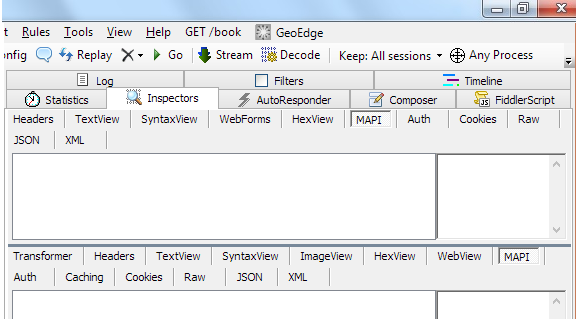
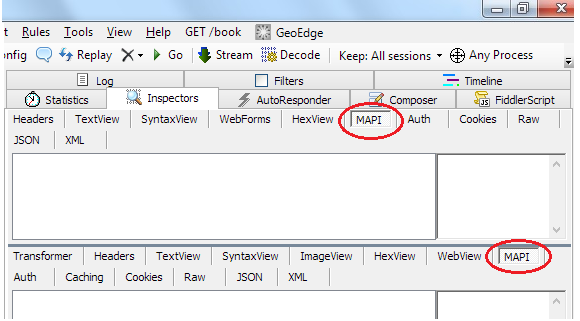
changed image links to relative links of image files in the README-Images directory

diff --git a/README.md b/README.md
@@ -10,25 +10,25 @@ Installation of the MAPI Inspector involves adding the DLL file and the MAPI scr
 
 ### MAPI Inspector DLL###
 1. Copy the file [MAPIFiddlerInspector.dll](https://github.com/OfficeDev/MAPI-Inspector-for-Fiddler/blob/master/MAPIFiddlerInspector.dll) into the C:\Program Files\Fiddler2\Inspectors directory. Alternatively, you can clone this repository, build the MAPIFiddlerInspector.dll, and copy the built .dll to your C:\Program Files\Fiddler2\Inspectors directory.
-2. Restart Fiddler. The MAPI Inspector will display under the *Inspectors* tab, as shown in the following screenshot, after restarting.
+2. Restart Fiddler. After restarting, the MAPI Inspector will display under the *Inspectors* tab for both the request and the response, as shown in the following screenshot.
 
-    ![alt tag](https://cloud.githubusercontent.com/assets/13864956/10044516/329c59c4-622e-11e5-9b68-8ef920d4ead8.jpg)
+    ![alt tag](/README-Images/Figure1-Inspector.png)
 
 ### MAPI Script ###
 
 1. From the *Rules* menu, which is shown in the following screenshot, click *Customize Rules*.
     
-    ![alt tag](https://cloud.githubusercontent.com/assets/13864956/10038377/a6e8d104-61f7-11e5-9a84-989fcf135f2c.png)
+    ![alt tag](/README-Images/Figure2-mapiscript.png)
 
 2. When the following message box displays, click the *Yes* button to install the FiddlerScript editor.
 
-    ![alt tag](https://cloud.githubusercontent.com/assets/13864956/10044513/2d5a400c-622e-11e5-9b1c-3cb44c11eb15.jpg)
+    ![alt tag](/README-Images/Figure3-mapiscript.png)
 
 3. Restart Fiddler after the installation of the FiddlerScript editor completes. Fiddler displays a new tab, *FiddlerScript*, as shown in the following screenshot. Copy the code from the code from the [MAPI.js](https://github.com/OfficeDev/MAPI-Inspector-for-Fiddler/blob/master/MAPI.js) file and paste it into the definition for the **Handlers** class. Click the *Save Script* button to save the script.
 
-    ![alt tag](https://cloud.githubusercontent.com/assets/13864956/10044440/9fc2b382-622d-11e5-8308-a642768bf28a.jpg)
+    ![alt tag](/README-Images/Figure4-mapiscript.png)
 
 4. Restart Fiddler. After restarting, the *MS protocol column* can be displayed in session view.
 
-    ![alt tag](https://cloud.githubusercontent.com/assets/13864956/10045590/6689c232-6236-11e5-9751-0caf596b3bba.jpg)
+    ![alt tag](/README-Images/Figure5-mapiscript.png)
 
